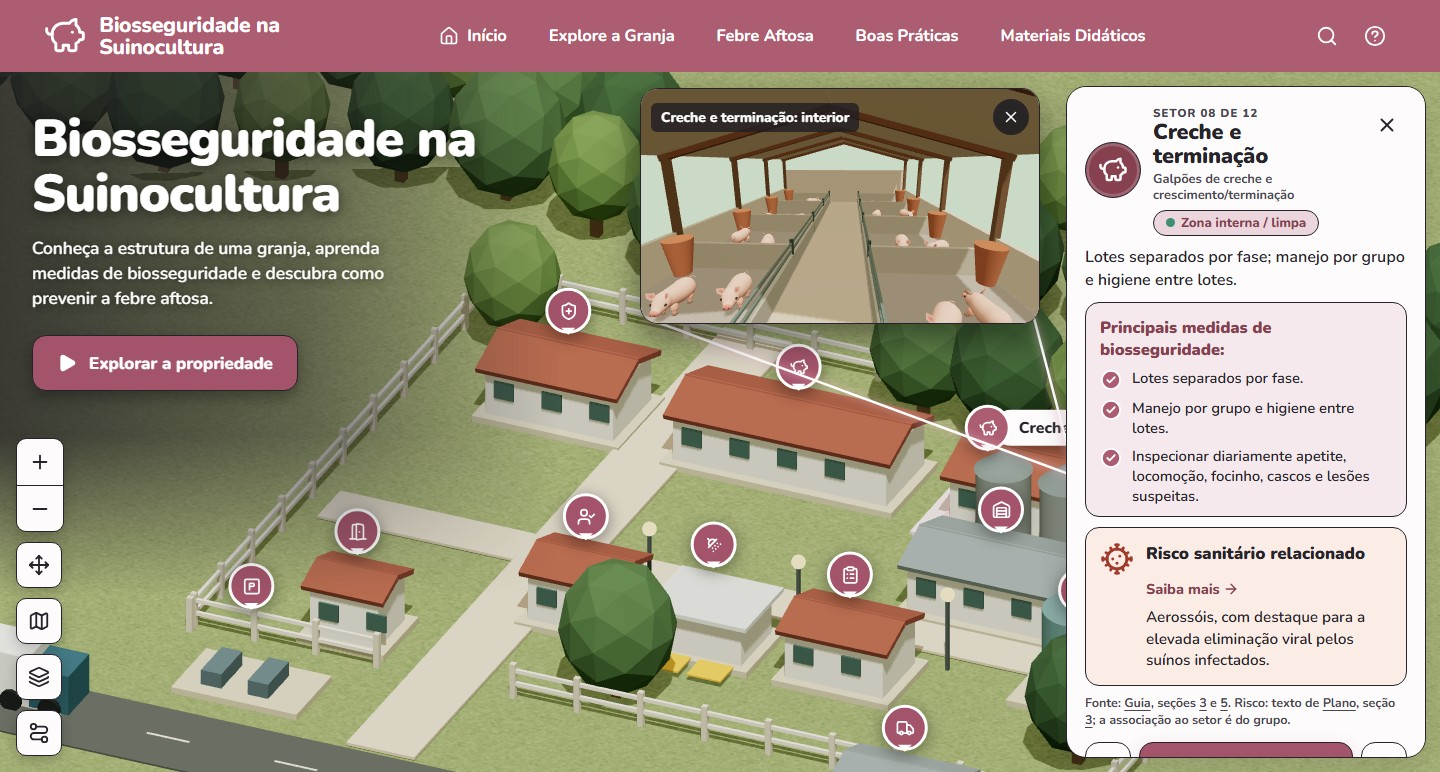
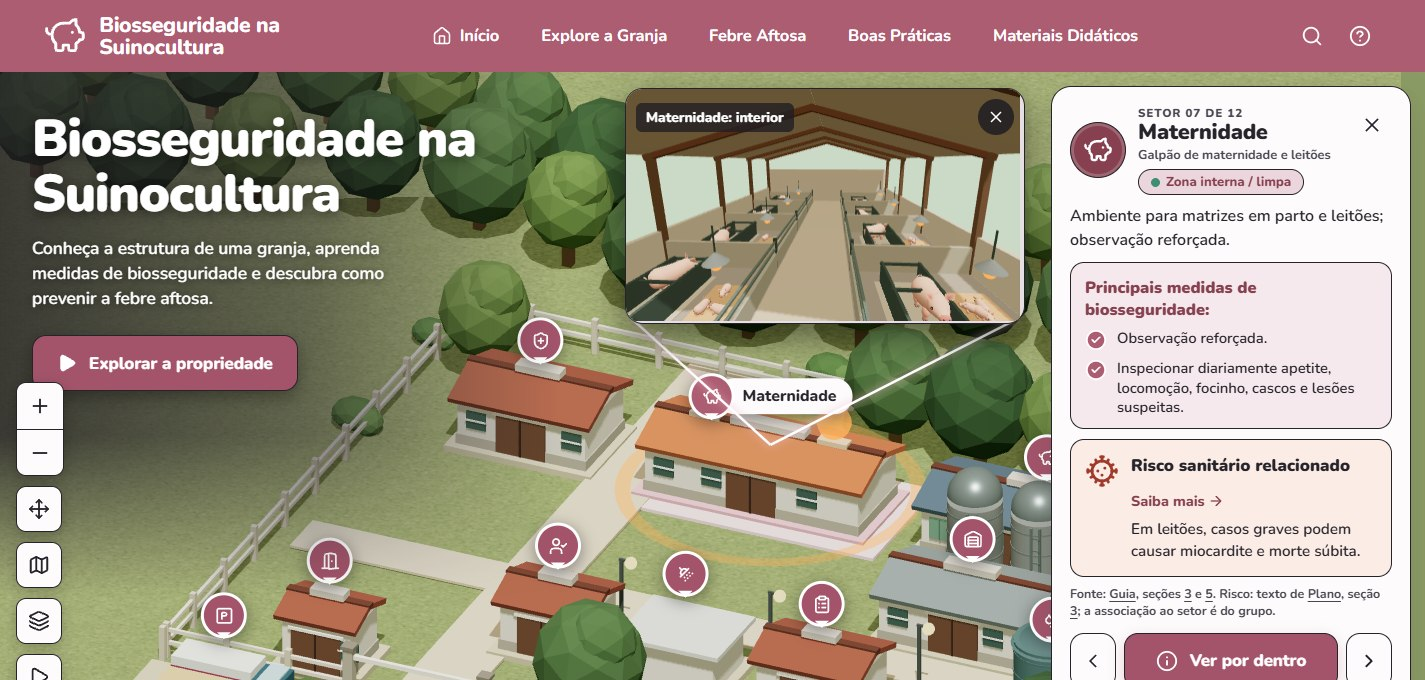
Atualiza foto e textos do README

diff --git a/README.md b/README.md
@@ -1,14 +1,15 @@
 # Biosseguridade na Suinocultura
 
-Uma visita virtual a uma granja fictícia para estudar a prevenção da febre aftosa em suínos. A maquete reúne **12 setores**. Ao selecionar um deles, você descobre o que acontece ali, quais cuidados fazem parte da rotina e onde encontrar a explicação no material do grupo.
+Uma visita virtual a uma granja fictícia para estudar a prevenção da febre aftosa em suínos. A maquete reúne **12 setores**. Ao selecionar um deles, você descobre o que acontece ali, quais cuidados fazem parte da rotina e onde encontrar a explicação no material do grupo. Cada setor tem a sua própria animação na maquete e abre uma janelinha que mostra, por dentro, o processo que acontece no local.
 
-![Tela inicial do site com a maquete da granja e a ficha do setor selecionado](docs/imagens/granja.jpg)
+![Maquete da granja com a janela do interior da maternidade e a ficha do setor selecionado](docs/imagens/granja.jpg)
 
 ## Um roteiro pela granja
 
 1. Selecione **Explorar a propriedade** para começar pelo primeiro setor. Arraste a maquete para girar a câmera e use as setas **←** e **→** para passar de uma ficha à seguinte.
-2. Em um galpão, escolha **Ver por dentro**. Depois, volte à vista geral e abra a **planta 2D** para localizar o galpão em relação às outras instalações.
-3. Ative **Mostrar zonas** e **Mostrar fluxos**. Na legenda, selecione um percurso por vez para acompanhar a circulação de pessoas, animais, ração, veículos ou resíduos.
+2. Observe a janelinha do setor: na portaria a cancela sobe para o visitante registrado, na barreira sanitária a pessoa troca de roupa e toma banho, na quarentena os animais ficam em baias separadas. Em maternidade e creche, escolha **Ver por dentro** para abrir o galpão em corte, cada um com o seu modelo.
+3. Selecione o botão ▶ da maquete para ver a **animação passo a passo**: o caminhão chega, a ração segue dali, depois pessoas, animais e resíduos percorrem seus trajetos, uma etapa continuando a anterior.
+4. Abra a **planta 2D** para localizar os setores. Ative **Mostrar zonas** e **Mostrar fluxos** e, na legenda, selecione um percurso por vez para acompanhar a circulação de pessoas, animais, ração, veículos ou resíduos.
 
 ## Da visita à simulação
 
